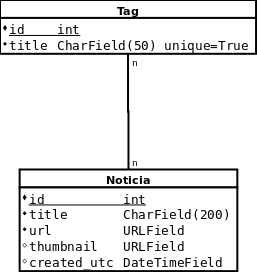
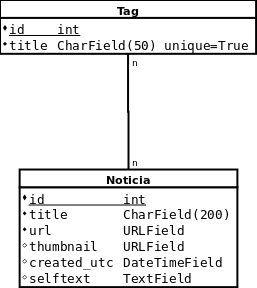
Adicionado campo texto a Noticia

Changed region(s): [[0.0623, 0.5588, 0.9339, 1.0], [0.0, 0.0, 1.0, 0.2353], [0.4981, 0.3824, 0.5292, 0.4118]]

diff --git a/noticias/migrations/0002_noticia_selftext.py b/noticias/migrations/0002_noticia_selftext.py
@@ -1,0 +1,20 @@
+# -*- coding: utf-8 -*-
+# Generated by Django 1.11.1 on 2017-05-26 01:37
+from __future__ import unicode_literals
+
+from django.db import migrations, models
+
+
+class Migration(migrations.Migration):
+
+    dependencies = [
+        ('noticias', '0001_initial'),
+    ]
+
+    operations = [
+        migrations.AddField(
+            model_name='noticia',
+            name='selftext',
+            field=models.TextField(blank=True, null=True),
+        ),
+    ]

diff --git a/noticias/models.py b/noticias/models.py
@@ -15,3 +15,7 @@ class Noticia(models.Model):
         null=True,
     )
     created_utc = models.DateTimeField()
+    selftext = models.TextField(
+        blank=True,
+        null=True,
+    )
